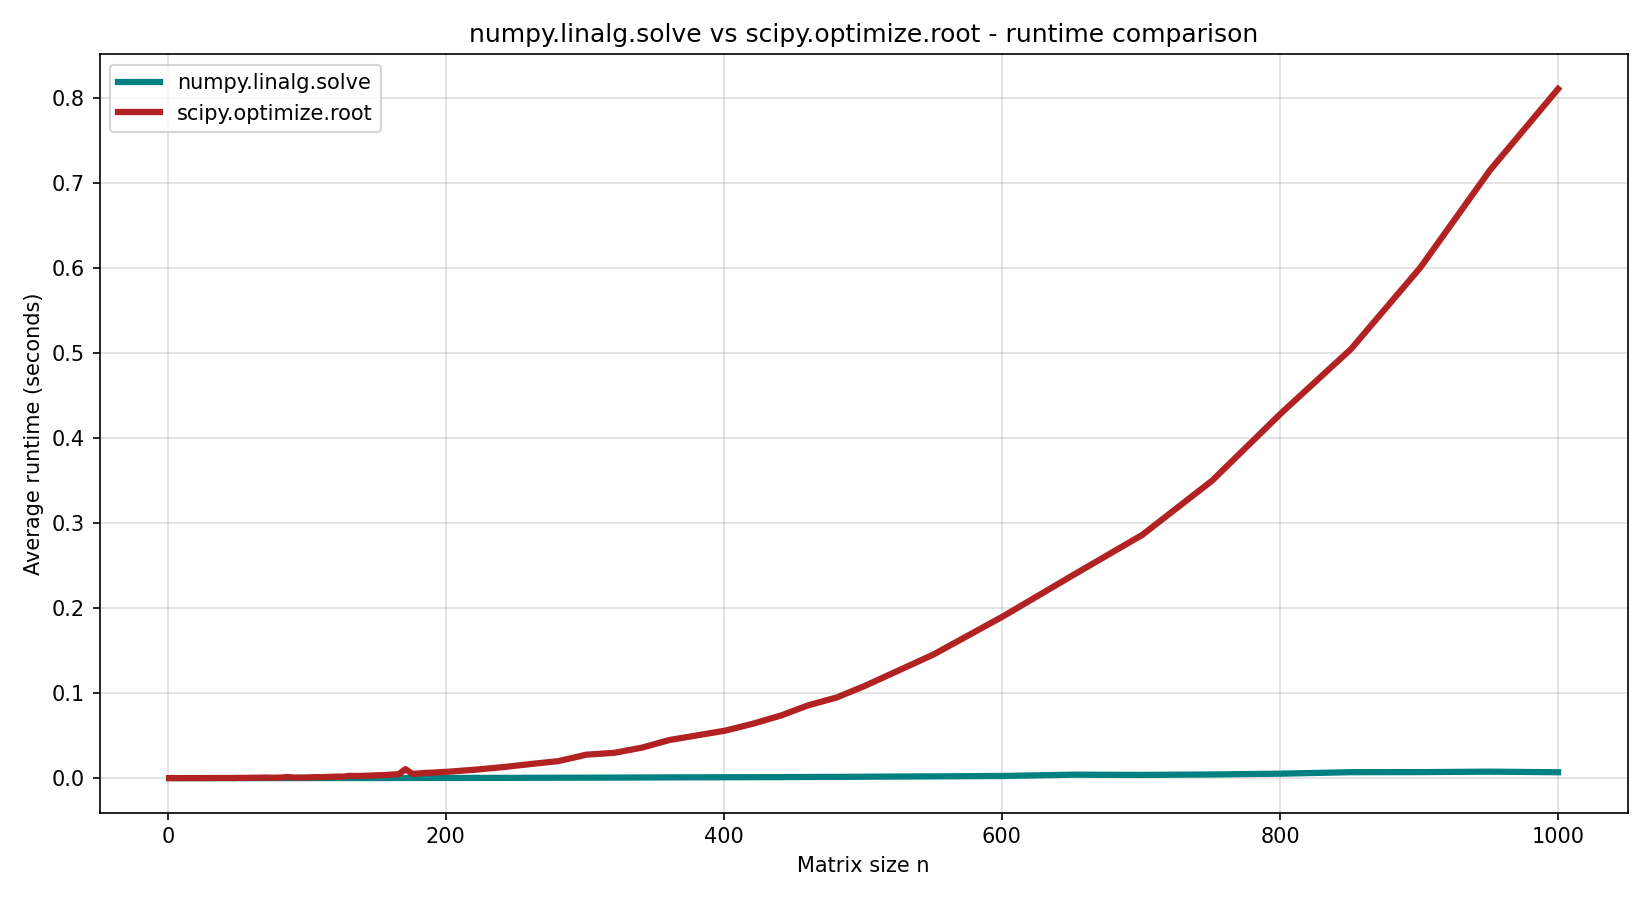
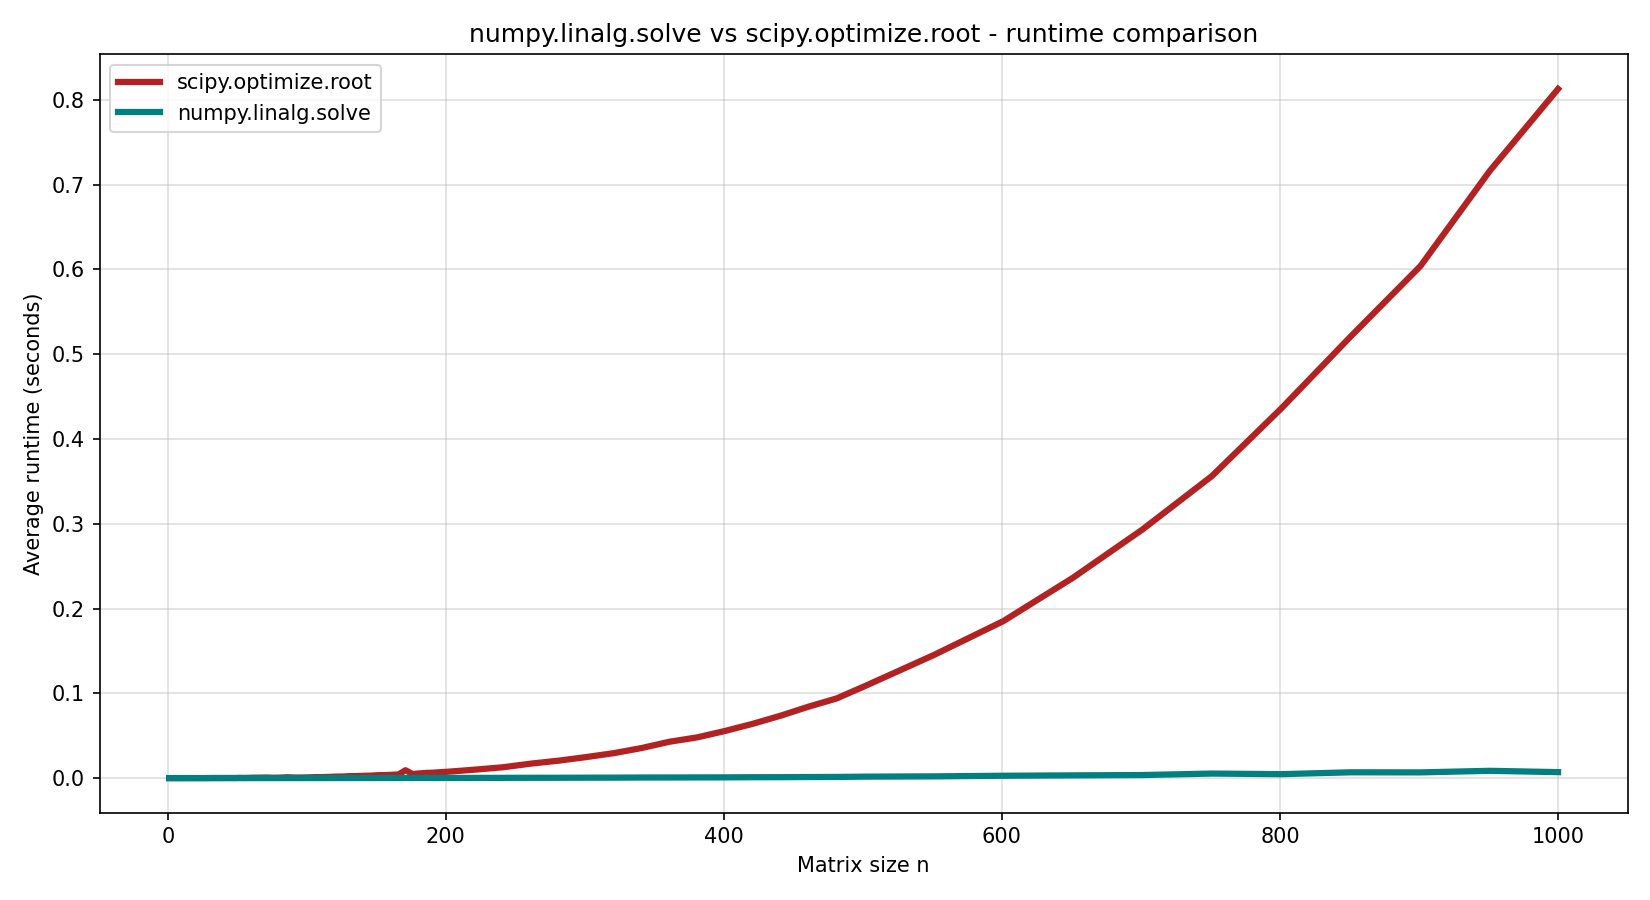
complete compare.py

diff --git a/compare.py b/compare.py
@@ -224,11 +224,11 @@ def plot_and_save(sizes, numpy_times, scipy_times, filename="comparison.png"):
     # create a figure with a wide aspect ratio so the x-axis has room to breathe
     plt.figure(figsize=(11, 6))
 
-    # plot numpy line in teal
-    plt.plot(sizes, numpy_times, label="numpy.linalg.solve", color="teal", linewidth=3)
-
-    # plot scipy line in firebrick - contrasts well with teal
+    # plot scipy line
     plt.plot(sizes, scipy_times, label="scipy.optimize.root", color="firebrick", linewidth=3)
+
+    # plot numpy line
+    plt.plot(sizes, numpy_times, label="numpy.linalg.solve", color="teal", linewidth=3)
 
     # label the x-axis so the reader knows what n means
     plt.xlabel("Matrix size n")
@@ -256,7 +256,6 @@ def plot_and_save(sizes, numpy_times, scipy_times, filename="comparison.png"):
 
 # -------------------------------------------------------
 # pytest entry points
-# run with: pytest compare.py
 # -------------------------------------------------------
 
 def test_solve_with_root_examples():
